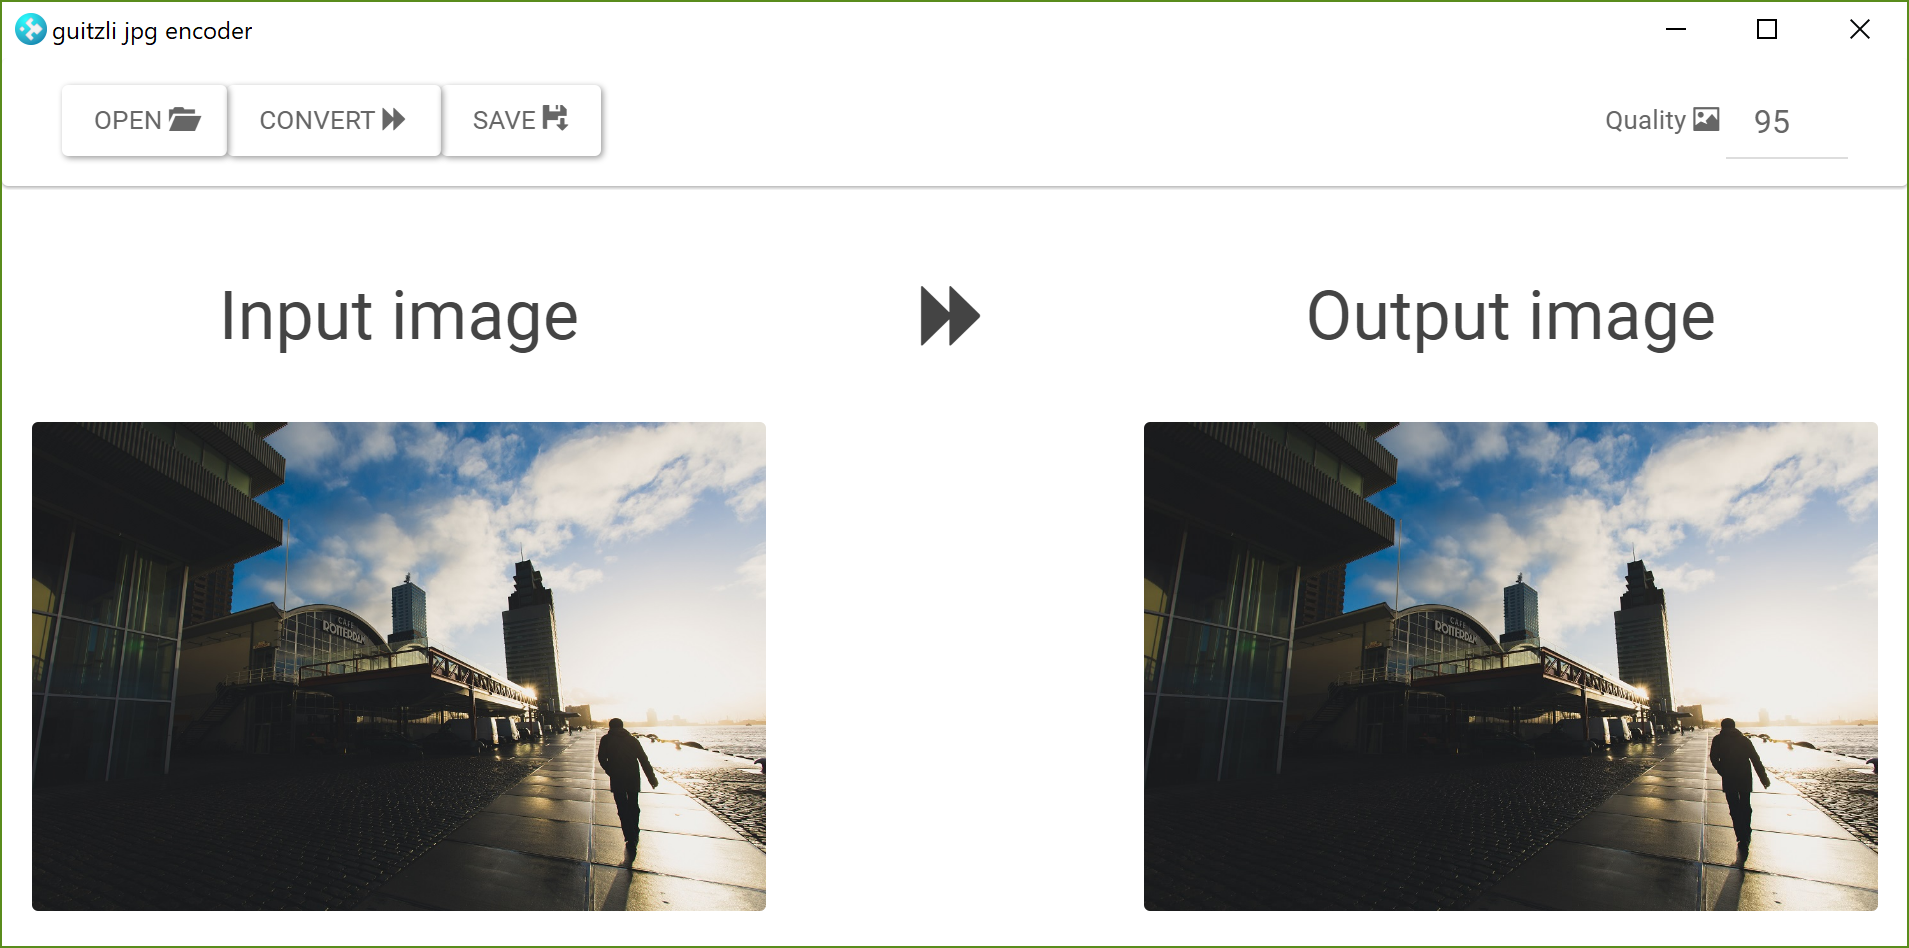
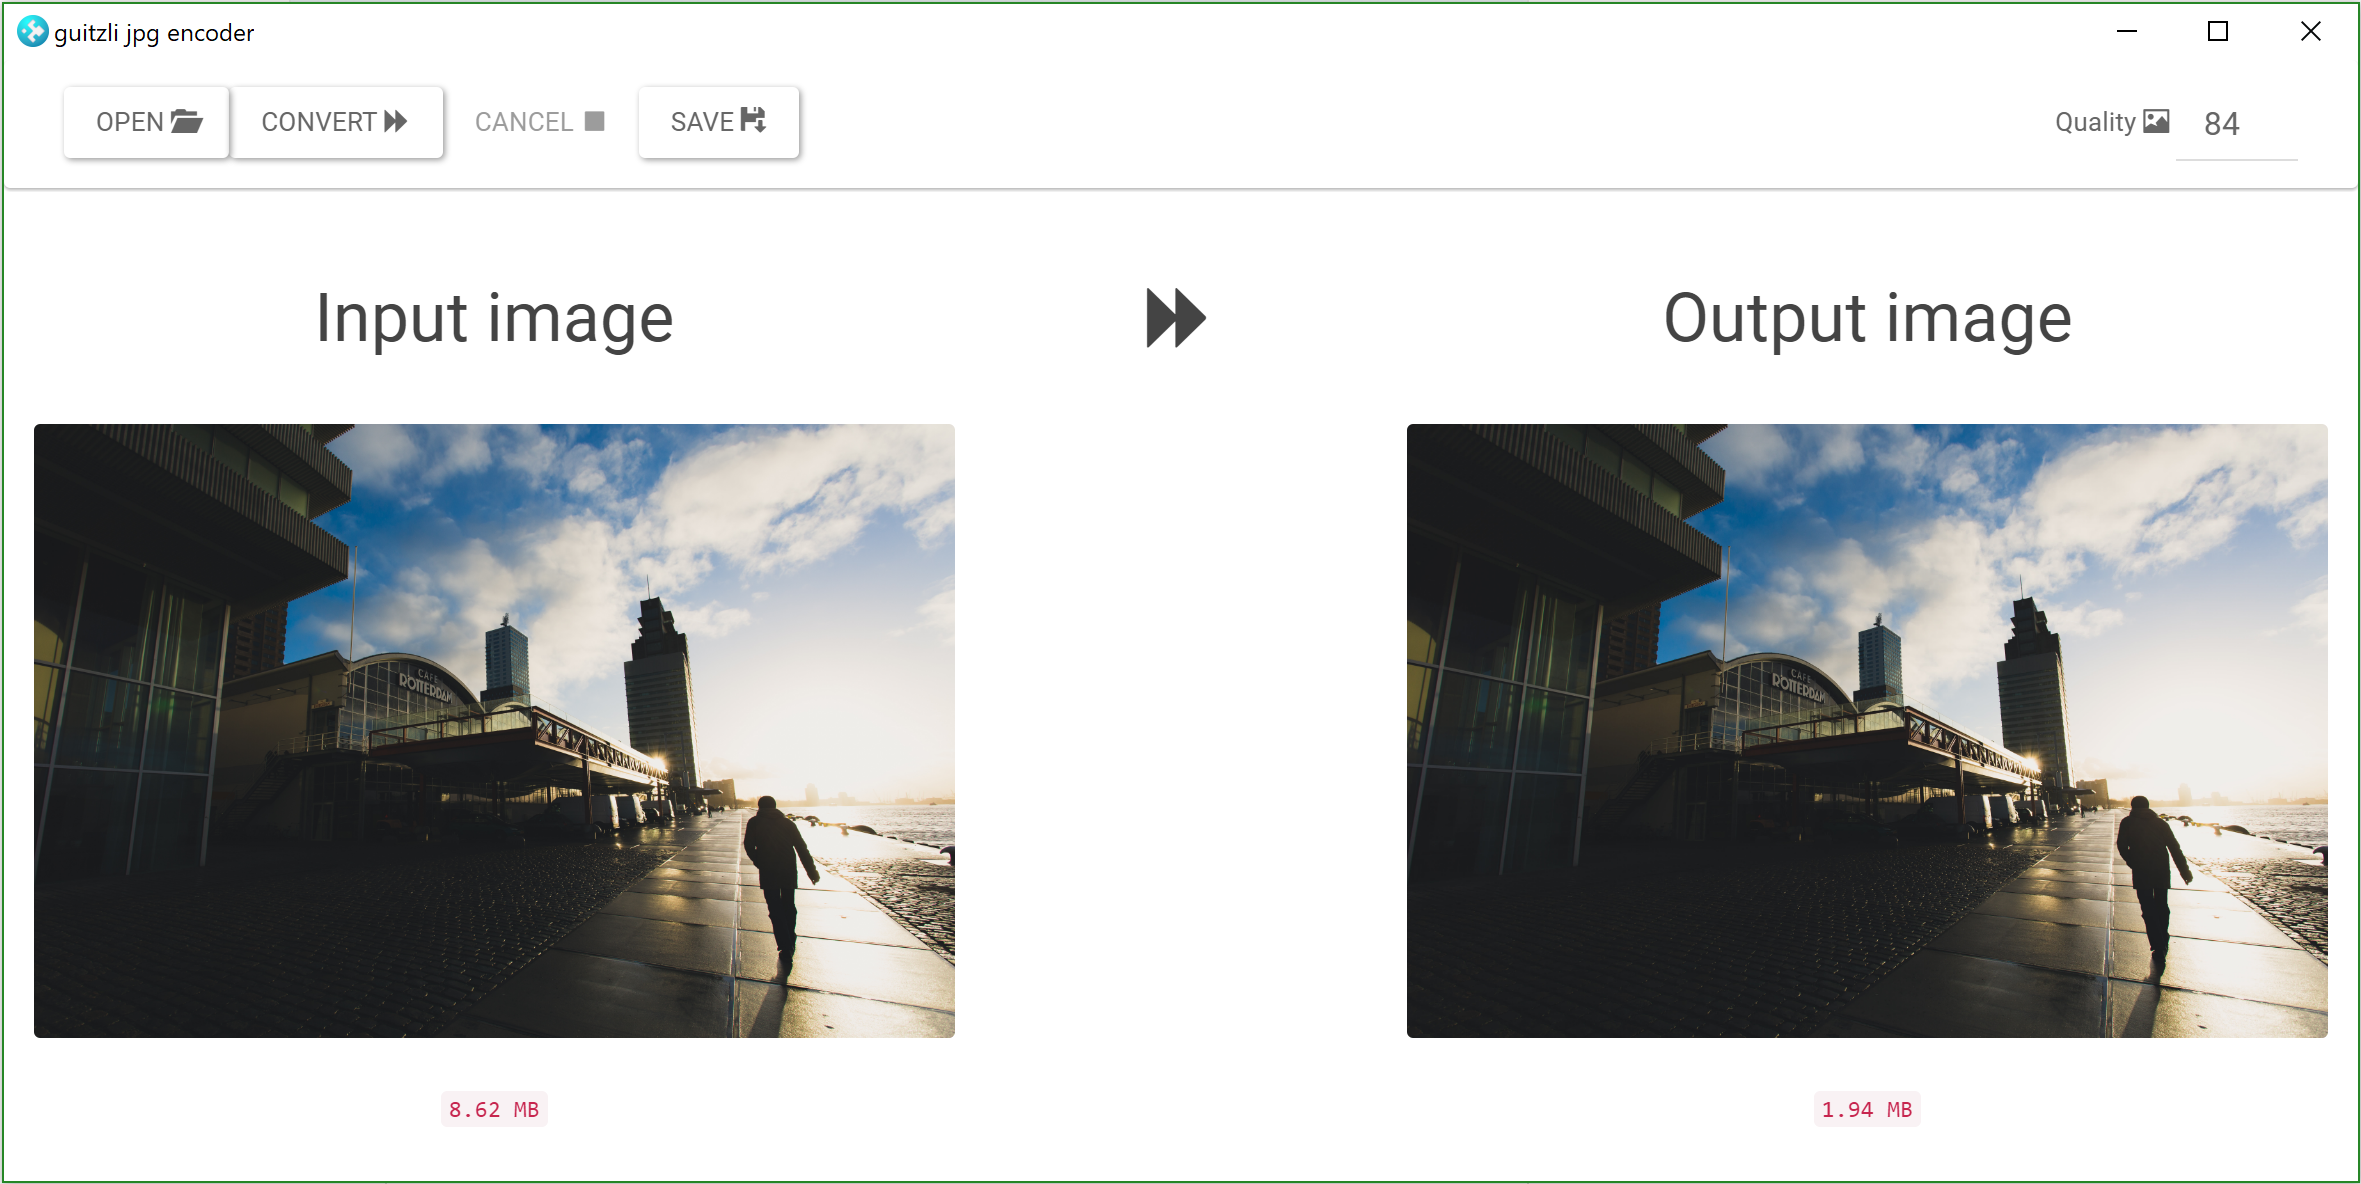
Update readme, add before/after comparison photos

diff --git a/README.md b/README.md
@@ -1,21 +1,34 @@
-<img src="https://raw.githubusercontent.com/vankesteren/guitzli/master/build/icon.png" width="10%"> 
-
-# guitzli jpg converter
+# <span> <img src="https://raw.githubusercontent.com/vankesteren/guitzli/master/build/icon.png" width="5%"> </span> guitzli
 [![GitHub release](https://img.shields.io/github/release/vankesteren/guitzli.svg)](https://github.com/vankesteren/guitzli/releases)
 [![GitHub license](https://img.shields.io/badge/license-MIT-blue.svg)](https://raw.githubusercontent.com/vankesteren/blog/master/LICENSE)
 [![GitHub commits](https://img.shields.io/github/commits-since/vankesteren/guitzli/v0.1.0.svg)](https://github.com/vankesteren/guitzli/commits/master)
 
+
+## optimise jpg for web
 Convert image files for web using google's [`guetzli`](https://github.com/google/guetzli) algorithm. This app is built on [`electron`](https://electron.atom.io/) with help from [`electron-forge`](https://beta.electronforge.io/). Also uses [`JQuery`](https://jquery.com/) and [`Bootstrap`](http://getbootstrap.com/) for the user interface.
 
 ![screenshot](https://raw.githubusercontent.com/vankesteren/guitzli/master/screenshot.png)
 
-# How to install
-Download the latest version for your system from [Releases](https://github.com/vankesteren/guitzli/releases)
+## When do I use it?
+### The good
+Guitzli uses [`guetzli`](https://github.com/google/guetzli) to compress your images to a fraction of their original size __without quality loss__. This is due to a [really interesting](https://arxiv.org/abs/1703.04421) human-visual-comparison algorithm developed by google. You're not convinced? Download the [before](https://raw.githubusercontent.com/vankesteren/guitzli/master/before.jpg) (8.62 MB) and [after](https://raw.githubusercontent.com/vankesteren/guitzli/master/after.jpg) (1.94 MB) photos from the above screenshot and compare them in as much detail as you want!
 
-For windows: install directory will be `C:\Users\<username>\AppData\Local\guitzli`. From there you can create a desktop shortcut should you so desire.
+### The bad
+__Guetzli conversion is slow__! Because of this, there are only a handful of web-related cases where guitzli is valuable:
+1. You are serving an image with limited bandwith (e.g., self-hosting).
+2. You are serving an image many times (e.g., a landing page).
+3. You are adamant about having the absolute smallest file size.
+4. Any combination of the above.
+
+[Here](https://github.com/google/guetzli#using) you can find some more information on using guetzli (and thus guitzli!) from the people at google.
+
+## How to install
+Download the latest version for your system from [Releases](https://github.com/vankesteren/guitzli/releases). Only recent versions of windows are supported at this time. I'll try to support linux and osx as soon as possible!
+
+For windows: install directory will be `%LOCALAPPDATA%\guitzli`. From there you can create a desktop shortcut should you so desire.
 
 
-# How to build from source
+## How to build from source
 
 1. Install [Node.js](https://nodejs.org/en/download/) 6.10.2.
 2. Install electron-forge: `npm install -g electron-forge`
@@ -29,8 +42,7 @@ npm start
 ```
 
 
-
-# How to package and create binaries
+## How to package and create binaries
 
 It's simple: `electron-forge make` for your current architecture.
 You can also specify another architecture by adding (for example) `--arch=ia32`.
@@ -38,5 +50,6 @@ You can also specify another architecture by adding (for example) `--arch=ia32`.
 
 # To-do
 
-sooner: Proper packaging.
+sooner: Proper packaging. Mac & Linux support.
+
 later: Multi-image support. (batch processing & multi-core)
